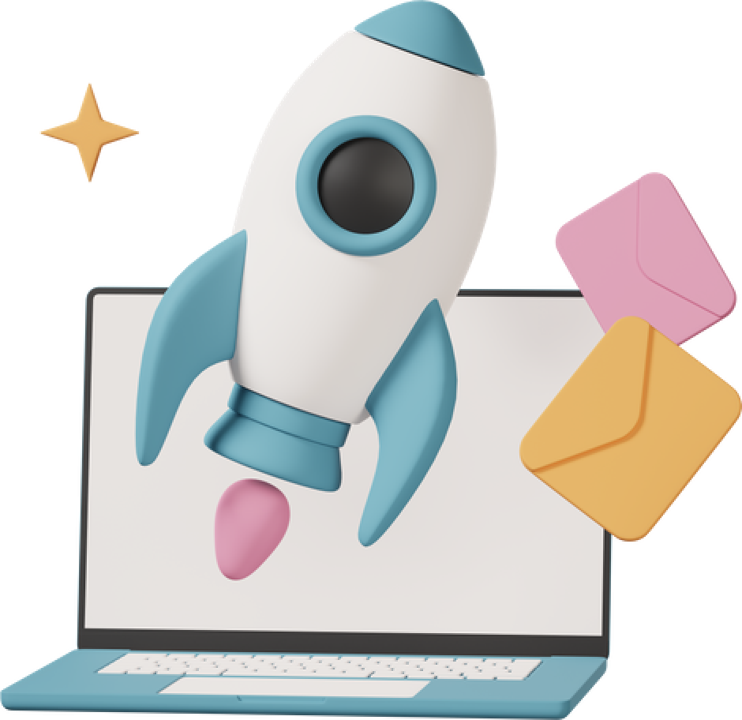
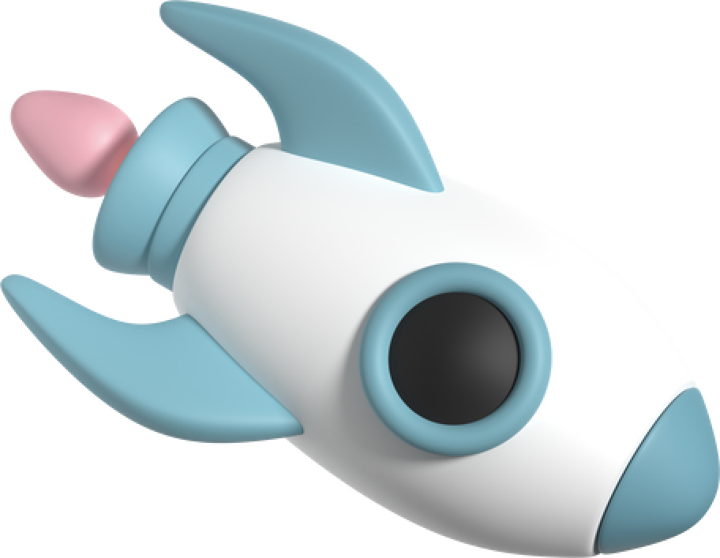
Footer, image replacement

diff --git a/src/pages/Diary.jsx b/src/pages/Diary.jsx
@@ -28,6 +28,15 @@ function Diary() {
   const [isSelectStampedVisible, setIsSelectStampedVisible] = useState(false);
   const [selectedStamp, setSelectedStamp] = useState("");
 
+  const dogStamp =
+    "https://hack-s3bucket.s3.ap-northeast-2.amazonaws.com/frontend/stamp_dog.jpg";
+  const catStamp =
+    "https://hack-s3bucket.s3.ap-northeast-2.amazonaws.com/frontend/stamp_cat.jpg";
+  const birdStamp =
+    "https://hack-s3bucket.s3.ap-northeast-2.amazonaws.com/frontend/stamp_bird.jpg";
+  const hamStamp =
+    "https://hack-s3bucket.s3.ap-northeast-2.amazonaws.com/frontend/stamp_ham.jpg";
+
   useEffect(() => {
     const fetchData = async () => {
       if (token) {
@@ -311,20 +320,20 @@ function Diary() {
             <StampContainer>
               <StampLayout>
                 <img
-                  src="/images/stamp_dog.jpg"
-                  onClick={() => handleStampClick("/images/stamp_dog.jpg")}
+                  src={dogStamp}
+                  onClick={() => handleStampClick(dogStamp)}
                 />
                 <img
-                  src="/images/stamp_cat.jpg"
-                  onClick={() => handleStampClick("/images/stamp_cat.jpg")}
+                  src={catStamp}
+                  onClick={() => handleStampClick(catStamp)}
                 />
                 <img
-                  src="/images/stamp_bird.jpg"
-                  onClick={() => handleStampClick("/images/stamp_bird.jpg")}
+                  src={birdStamp}
+                  onClick={() => handleStampClick(birdStamp)}
                 />
                 <img
-                  src="/images/stamp_ham.jpg"
-                  onClick={() => handleStampClick("/images/stamp_ham.jpg")}
+                  src={hamStamp}
+                  onClick={() => handleStampClick(hamStamp)}
                 />
               </StampLayout>
               <InStamp>

diff --git a/src/components/Footer/Footer.jsx b/src/components/Footer/Footer.jsx
@@ -7,10 +7,46 @@ function Footer() {
     <FooterWrapper>
       <div id="bottomMenu">
         <ul>
-          <li>Github</li>
-          <li>Info</li>
-          <li>Explore</li>
-          <li>Pet Loss</li>
+          <li>
+            <a
+              href="https://github.com/orgs/ewha-cse-HACK/repositories"
+              target="_blank"
+              rel="noopener noreferrer"
+              className="no-style"
+            >
+              GitHub
+            </a>
+          </li>
+          <li>
+            <a
+              href="https://youtu.be/NFmeN01eHdY"
+              target="_blank"
+              rel="noopener noreferrer"
+              className="no-style"
+            >
+              Youtube
+            </a>
+          </li>
+          <li>
+            <a
+              href="https://careful-prose-033.notion.site/HACK-7ea2f3ab393d4d9ea9cda5a44c6527df?pvs=4"
+              target="_blank"
+              rel="noopener noreferrer"
+              className="no-style"
+            >
+              Info
+            </a>
+          </li>
+          <li>
+            <a
+              href="https://www.psychiatricnews.net/news/articleView.html?idxno=33625"
+              target="_blank"
+              rel="noopener noreferrer"
+              className="no-style"
+            >
+              Pet Loss
+            </a>
+          </li>
         </ul>
       </div>
       <div className="address">
@@ -51,6 +87,10 @@ const FooterWrapper = styled.footer`
     padding: 20px;
     padding-bottom: 0px;
     color: #e9f5ff;
+  }
+  a.no-style {
+    text-decoration: none;
+    color: white;
   }
   .address {
     width: 100%;

diff --git a/src/pages/Brand.jsx b/src/pages/Brand.jsx
@@ -42,16 +42,16 @@ function Brand() {
     <>
       <ProjectInfo>
         <img
-          src="https://hack-s3bucket.s3.ap-northeast-2.amazonaws.com/logo.png"
-          alt="Postbox"
+          src="https://hack-s3bucket.s3.ap-northeast-2.amazonaws.com/frontend/logo.png"
+          alt="Rainbow letter Logo"
           onClick={handleScroll}
         />
-        <h1>펫로스 증후군 극복 프로젝트, "무지개 편지"</h1>
+        <h1>펫로스 증후군 극복 프로젝트, 무지개편지</h1>
         <p>로고를 클릭하세요!</p>
       </ProjectInfo>
       <GradientBackground />
       <Content>
-        <h1>무지개편지를 소개합니다!</h1>
+        <img src="https://hack-s3bucket.s3.ap-northeast-2.amazonaws.com/frontend/rocket.png" />
       </Content>
       <Wallpaper id="targetElement">
         <Wrapper>
@@ -230,6 +230,9 @@ const Content = styled.div`
   color: white;
   background-color: #000027;
   margin-bottom: -22px;
+  img {
+    width: 350px;
+  }
 `;
 const Wrapper = styled.div`
   margin: 20px;

diff --git a/src/pages/persona/PersonaCat.jsx b/src/pages/persona/PersonaCat.jsx
@@ -40,7 +40,7 @@ function PersonaCat() {
   const [objUrl, setObjUrl] = useState(null); //객체 URL 풀 버전
   const [uploadUrl, setUploadUrl] = useState(null); //presigned URL - 업로드할 url
   const [sendingUrl, setSendingUrl] = useState(
-    "https://hack-s3bucket.s3.ap-northeast-2.amazonaws.com/petprofile/pf_cat.png"
+    "https://hack-s3bucket.s3.ap-northeast-2.amazonaws.com/frontend/pf_cat2.png"
   );
 
   useEffect(() => {

diff --git a/src/pages/SignUp.jsx b/src/pages/SignUp.jsx
@@ -117,7 +117,7 @@ const SignupWrapper = styled.div`
   margin: auto;
   padding: 50px;
   width: 1000px;
-  height: 70vh;
+  height: 80vh;
   display: flex;
   flex-direction: column;
   justify-content: center;

diff --git a/src/pages/Login.jsx b/src/pages/Login.jsx
@@ -92,7 +92,7 @@ const LoginWrapper = styled.div`
   margin: auto;
   padding: 50px;
   width: 1000px;
-  height: 70vh;
+  height: 80vh;
   display: flex;
   flex-direction: column;
   justify-content: center;

diff --git a/src/pages/style.css b/src/pages/style.css
@@ -179,7 +179,7 @@ ul {
   }
   
   .top-button:hover {
-    background-color: lightsteelblue;
+    background-color: #E9F5FF;
   }
 
 
